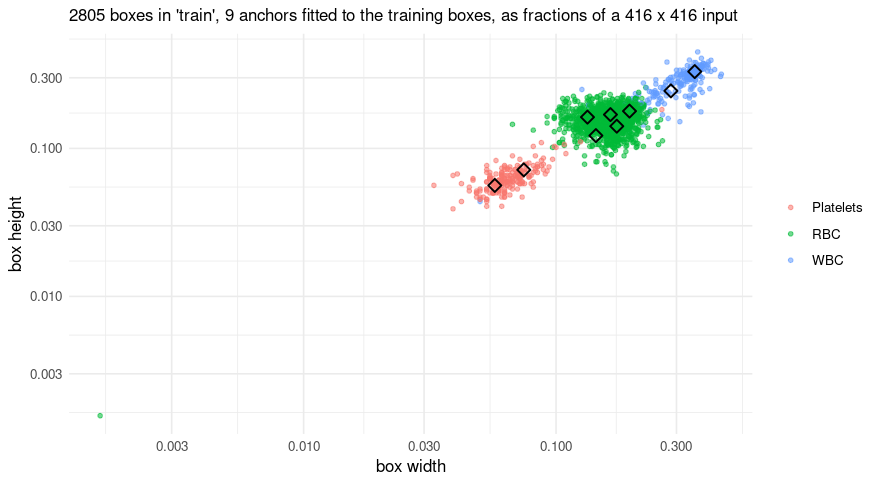
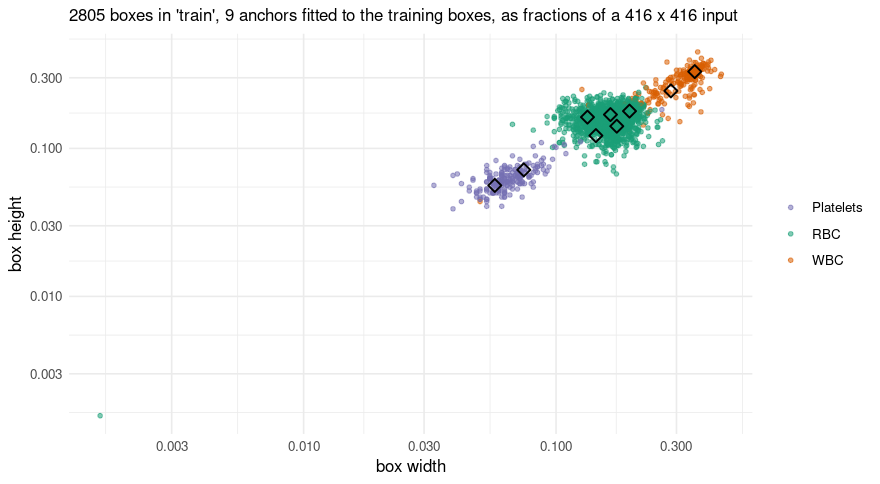
The drawing decisions come from the engine now
`pyplatypus.style` said "both halves read them" and this package read none of
them: `drawing_style` appeared nowhere here, while ten literals across
`R/plot.R` and `R/masks.R` restated the same five values. They agreed because
five differences between the two packages' figures were found by laying them
side by side yesterday and fixed by hand, which is a state and not a guarantee.

**Mirrored rather than fetched, and that was decided by measuring.** Drawing
here touches no bridge - `plot_masks()`, `plot_boxes()` and `overlay_agreement()`
all return with no Python involved, and only `read_images`, `write_masks` and
`anchor_shapes` reach the shim. Someone with masks in R can draw them without a
five-gigabyte torch download, so a default colour that called the engine would
have been a worse trade than a copy. `R/style.R` is that copy, in one place, and
`test-drawing-style.R` compares every value against `drawing_style()` in the
`engine` job - so a change on that side fails CI here.

`drawing_style()` is exported, because a user asking which colour means "missed"
otherwise has to type it, and because the engine has the same function under the
same name.

**The test found a sixth decision I had not counted.** `class_colours` had no
counterpart here: `plot_anchors()` coloured its classes with ggplot2's default
hue scale, which the engine had recorded as a known difference to close when this
happened. Closed - and it is an improvement rather than symmetry, because that
[…]

Changed region(s): [[0.4909, 0.093, 0.8284, 0.4339]]

diff --git a/inst/python/platypus_shim.py b/inst/python/platypus_shim.py
@@ -448,6 +448,23 @@ def target_survey(engine: Any, model_name: str) -> dict:
     return {"ok": True, "survey": run.survey.to_dict()}
 
 
+def drawing_style() -> dict:
+    """The engine's drawing decisions, for the test that holds R's copy to them.
+
+    Not used when drawing: R mirrors these values so that `plot_masks()` and the rest need
+    no Python at all. This is what makes the mirror a mirror - if the engine changes a
+    colour and R does not, the comparison in `test-drawing-style.R` fails.
+    """
+    import pyplatypus
+
+    if not hasattr(pyplatypus, "drawing_style"):
+        return _failure_message(
+            "This engine predates the shared drawing style. Update platypus, or point "
+            "PLATYPUS_ENGINE_PATH at a newer source tree."
+        )
+    return {"ok": True, "style": pyplatypus.drawing_style()}
+
+
 def model_names(engine: Any) -> list:
     return list(engine.runs)
 

diff --git a/NEWS.md b/NEWS.md
@@ -70,6 +70,34 @@ Its source is on the `master` branch, and the issues filed against it stay open.
 is its dependencies rather than its code: the pinned TensorFlow no longer installs on a current
 Python, which is the reason for a rewrite rather than a consequence of one.
 
+### 2026-10-08 - engine 0.8.0a1
+
+#### Added
+
+- **`drawing_style()`**, the five decisions every figure in this package makes when you do
+  not give it one: which colours mean found, missed and invented, how much of the image an
+  overlay lets through, how a box is labelled, and which boxes are worth drawing. Reach for
+  it when you want to match a figure rather than restate it -
+  `colours = drawing_style()$box_colours` keeps one source where typing the hex codes
+  starts a second.
+
+#### Changed
+
+- **The drawing decisions now come from the engine.** They were written out in ten places
+  across `R/plot.R` and `R/masks.R`, and `pyplatypus.style` held the same five values -
+  which is two copies that happened to agree, not one source. They agreed because five
+  differences between the two packages' figures had been found by laying them side by side
+  and fixing them by hand.
+
+  Nothing changes in any picture: the values are identical, and a test compares every one
+  of them against the engine's, so a change on that side now fails this package's CI
+  instead of being noticed by eye.
+
+  **Drawing still needs no Python.** That is why the values are mirrored in `R/style.R`
+  rather than fetched: `plot_masks()`, `plot_boxes()` and `overlay_agreement()` return
+  without touching the bridge, and a default colour that called the engine would mean a
+  five-gigabyte download to draw a mask.
+
 ### 2026-10-07 - engine 0.6.0a2, then 0.6.0a4, then 0.7.0a1
 
 #### Changed, and it breaks code
